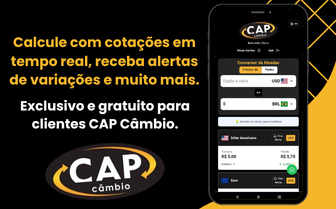
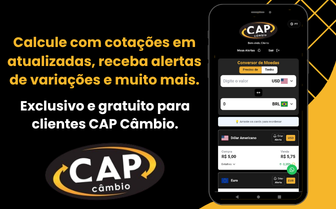
feat: atualizar arte do slide Cotacoes1 e subir CACHE_VERSION do service worker
O novo PNG tem o mesmo nome de arquivo com bytes diferentes, e o service
worker faz stale-while-revalidate em /assets/: sem subir a versão do cache
o navegador entregaria a arte antiga no primeiro load e só trocaria em
segundo plano.

Changed region(s): [[0.0, 0.2584, 0.5952, 0.3445]]

diff --git a/public/sw.js b/public/sw.js
@@ -1,7 +1,7 @@
 // Service Worker para Push Notifications e Cache
 
 // Versionamento dinâmico do cache para invalidação automática
-const CACHE_VERSION = '1.0.27'; // Atualizar este número em cada release
+const CACHE_VERSION = '1.0.28'; // Atualizar este número em cada release
 const CACHE_NAME = `cap-cotacoes-v${CACHE_VERSION}`;
 const OFFLINE_PAGE = '/offline.html';
 const ASSETS_TO_CACHE = [
